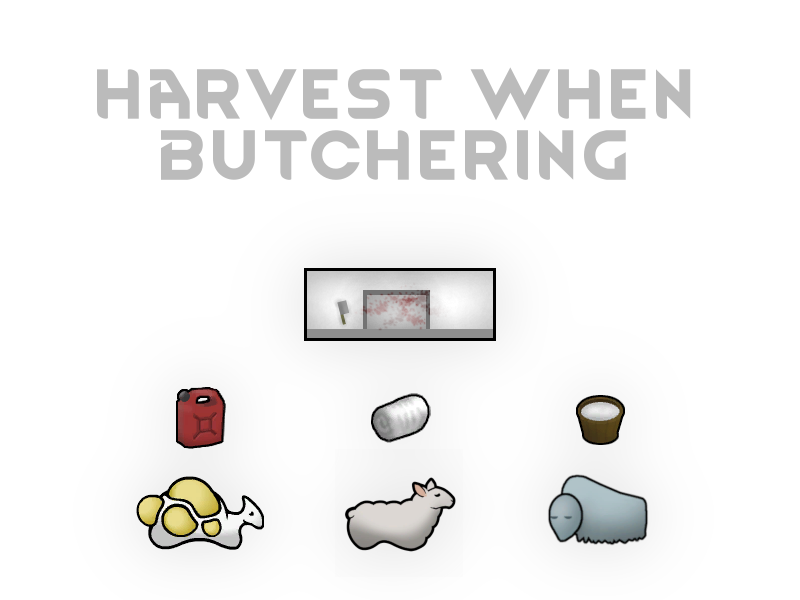
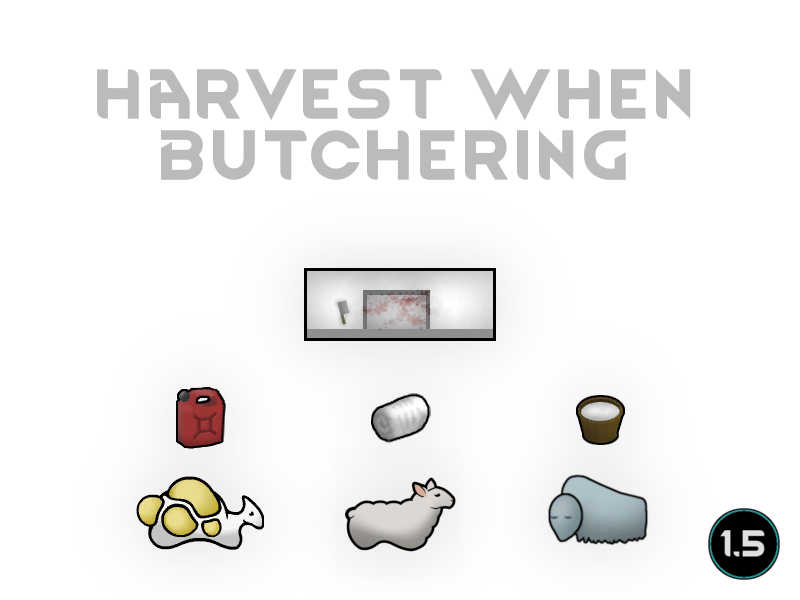
Mod updated for 1.5 and passed autotests

Changed region(s): [[0.875, 0.84, 1.0, 0.99]]

diff --git a/Source/HarvestWhenButchering/Pawn_ButcherProducts.cs b/Source/HarvestWhenButchering/Pawn_ButcherProducts.cs
@@ -1,4 +1,5 @@
 using System.Collections.Generic;
+using System.Reflection;
 using HarmonyLib;
 using RimWorld;
 using UnityEngine;
@@ -6,12 +7,24 @@ using Verse;
 
 namespace HarvestWhenButchering;
 
-[HarmonyPatch(typeof(Pawn), "ButcherProducts")]
+[HarmonyPatch(typeof(Pawn), nameof(Pawn.ButcherProducts))]
 public static class Pawn_ButcherProducts
 {
+    private static readonly MethodInfo activeMethod =
+        AccessTools.PropertyGetter(typeof(CompHasGatherableBodyResource), "Active");
+
+    private static readonly MethodInfo resourceAmountMethod =
+        AccessTools.PropertyGetter(typeof(CompHasGatherableBodyResource), "ResourceAmount");
+
+    private static readonly FieldInfo fullnessField =
+        AccessTools.Field(typeof(CompHasGatherableBodyResource), "fullness");
+
+    private static readonly FieldInfo resourceDefField =
+        AccessTools.Field(typeof(CompHasGatherableBodyResource), "ResourceDef");
+
     private static void gather(CompHasGatherableBodyResource comp, Pawn doer, float efficiency)
     {
-        if (!comp.Active)
+        if ((bool)activeMethod.Invoke(comp, null) == false)
         {
             return;
         }
@@ -21,18 +34,19 @@ public static class Pawn_ButcherProducts
             return;
         }
 
-        var baseValue = comp.ResourceAmount * comp.fullness * efficiency;
+        var baseValue = (int)resourceAmountMethod.Invoke(comp, null) * (float)fullnessField.GetValue(comp) * efficiency;
         if (comp.parent is not Pawn pawn || pawn.Faction?.IsPlayer == false)
         {
             baseValue *= HarvestWhenButcheringMod.instance.Settings.WildAnimalFactor;
         }
 
         var i = GenMath.RoundRandom(baseValue);
+        var resourceDef = (ThingDef)resourceDefField.GetValue(comp);
         while (i > 0)
         {
-            var num = Mathf.Clamp(i, 1, comp.ResourceDef.stackLimit);
+            var num = Mathf.Clamp(i, 1, resourceDef.stackLimit);
             i -= num;
-            var thing = ThingMaker.MakeThing(comp.ResourceDef);
+            var thing = ThingMaker.MakeThing(resourceDef);
             thing.stackCount = num;
             GenPlace.TryPlaceThing(thing, doer.Position, doer.Map, ThingPlaceMode.Near);
         }

diff --git a/Source/HarvestWhenButchering/HarvestWhenButcheringMod.cs b/Source/HarvestWhenButchering/HarvestWhenButcheringMod.cs
@@ -50,7 +50,7 @@ internal class HarvestWhenButcheringMod : Mod
         listing_Standard.Begin(rect);
         listing_Standard.Gap();
         listing_Standard.Label("HWB.WildAnimalFactor".Translate(), -1, "FHWB.WildAnimalFactorTT".Translate());
-        Settings.WildAnimalFactor = Widgets.HorizontalSlider_NewTemp(listing_Standard.GetRect(20),
+        Settings.WildAnimalFactor = Widgets.HorizontalSlider(listing_Standard.GetRect(20),
             Settings.WildAnimalFactor, 0, 1f, false, Settings.WildAnimalFactor.ToStringPercent());
         if (currentVersion != null)
         {

diff --git a/README.md b/README.md
@@ -1,6 +1,6 @@
 # HarvestWhenButchering
 
-![Image](https://i.imgur.com/buuPQel.png)
+![Image](https://i.imgur.com/iCj5o7O.png)
 
 
 **Triggers harvesting of resources when butchering**
@@ -9,25 +9,30 @@ Any resource that can be harvested from an animal will be harvested when butcher
 
 To be able to harvest resources from animals that explode on death you can use https://steamcommunity.com/sharedfiles/filedetails/?id=2359846788]BoomMod Expanded or similar mod.
 
+Also added a setting to lower the amount of resources gained from butchered wild animals.
+
 Idea by: DisKorruptd
 
-![Image](https://i.imgur.com/O0IIlYj.png)
+![Image](https://i.imgur.com/Ds0rBAD.png)
 
 Since modding is just a hobby for me I expect no donations to keep modding. If you still want to show your support you can gift me anything from my https://store.steampowered.com/wishlist/id/Mlie]Wishlist or buy me a cup of tea.
 
-https://ko-fi.com/G2G55DDYD]![Image](https://i.imgur.com/Utx6OIH.png)
+https://ko-fi.com/G2G55DDYD]![Image](https://i.imgur.com/VWG0yff.png)
 
 
-![Image](https://i.imgur.com/PwoNOj4.png)
+![Image](https://i.imgur.com/5xwDG6H.png)
 
 
 
 -  See if the the error persists if you just have this mod and its requirements active.
 -  If not, try adding your other mods until it happens again.
--  Post your error-log using https://steamcommunity.com/workshop/filedetails/?id=818773962]HugsLib and command Ctrl+F12
+-  Post your error-log using https://steamcommunity.com/workshop/filedetails/?id=818773962]HugsLib or the standalone https://steamcommunity.com/sharedfiles/filedetails/?id=2873415404]Uploader and command Ctrl+F12
 -  For best support, please use the Discord-channel for error-reporting.
 -  Do not report errors by making a discussion-thread, I get no notification of that.
 -  If you have the solution for a problem, please post it to the GitHub repository.
+-  Use https://github.com/RimSort/RimSort/releases/latest]RimSort to sort your mods
 
 
-https://steamcommunity.com/sharedfiles/filedetails/changelog/2898826891]Last updated 2023-03-10
+
+https://steamcommunity.com/sharedfiles/filedetails/changelog/2898826891]![Image](https://img.shields.io/github/v/release/emipa606/HarvestWhenButchering?label=latest%20version&style=plastic&labelColor=0070cd&color=white)
+
